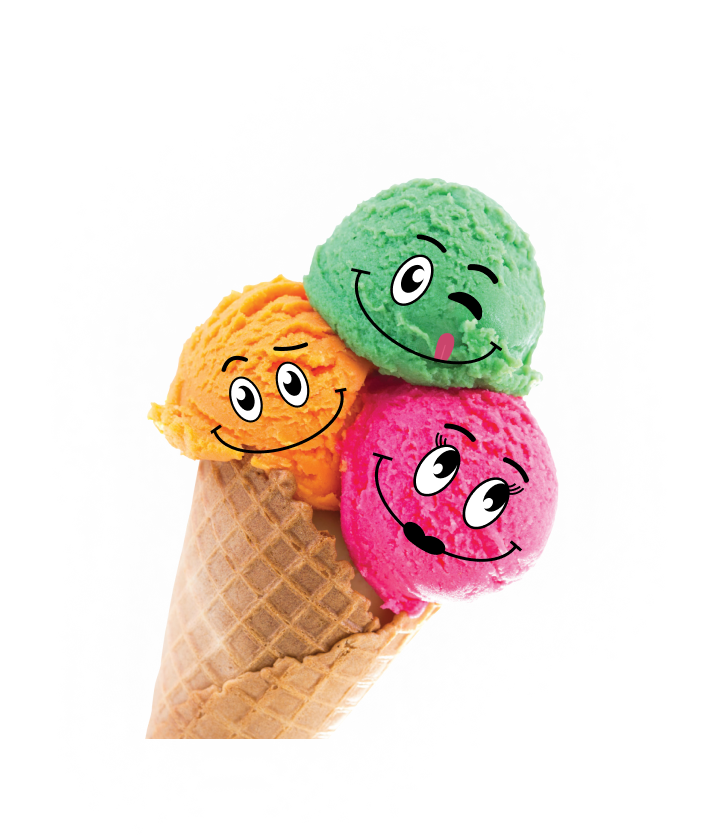
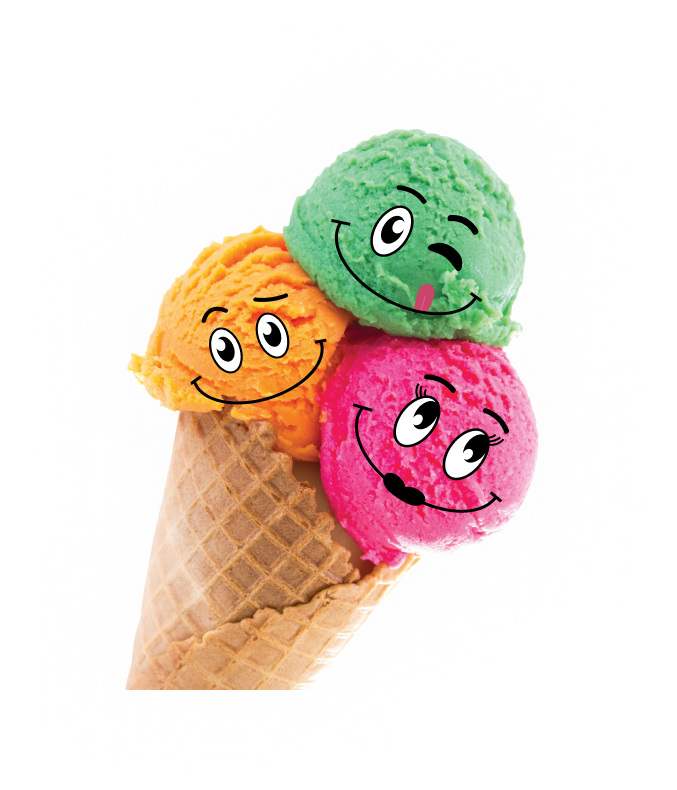
Додала анімацію на морозиво

Changed region(s): [[0.1861, 0.1519, 0.8065, 0.881]]

diff --git a/src/partials/hero.html b/src/partials/hero.html
@@ -56,18 +56,15 @@
             </picture>
             <picture>
                 <source srcset="
-                ./images/ice-cream-wink-m.png 1x,
-                ./images/ice-cream-wink-m.png 2x"
+                ./images/ice-cream-wink-m.png 1x"
                 media="(max-width: 767px)">
                 <source srcset="
-                ./images/ice-cream-wink-t.png 1x,
-                ./images/ice-cream-wink-t.png 2x"
+                ./images/ice-cream-wink-t.png 1x"
                 media="(max-width: 1199px)">
                 <source srcset="
-                ./images/ice-cream-wink-d.png 1x,
-                ./images/ice-cream-wink-d.png 2x"
+                ./images/ice-cream-wink-d.png 1x"
                 media="(min-width: 1200px)">
-                <img class="hero__img-iceCream-wink" src="ice-cream-wink-m.png" alt="ice cream" >
+                <img class="hero__img-iceCream-wink" src="./images/ice-cream-wink-m.png" alt="ice cream" >
             </picture>
             <picture>
                 <source srcset="

diff --git a/src/sass/layout/_hero.scss b/src/sass/layout/_hero.scss
@@ -257,11 +257,11 @@
 .hero__img-iceCream-wink { 
         // margin: 0 auto;
         position: absolute;
-        left: 50%;
-        bottom: -80px;
+        bottom: -90px;
+        left: 55%;
         transform: translate(-50%, 0%);
         width: 480px;
-        pointer-events: none;
+        // pointer-events: none;
         
         @include tablet {
             left: 555px;
@@ -270,19 +270,24 @@
         }
     
         @include pc {
-            left: 880px;
+            left: 892px;
             bottom: -100px;
         }
         @include miniMobile {
         bottom: -16.8vw;
         width: 100vw;
+        left: 55%;
     
         
         }
 }
-// .hero__img-iceCream:hover { 
-//     background-image: url();
-// }
+.hero__img-iceCream-wink { 
+    opacity: 0;
+    transition: opacity var(--duration) var(--cubic);
+}
+.hero__img-iceCream-wink:hover { 
+    opacity: 1;
+}
 
 .hero__img-plate {
     position: absolute;
